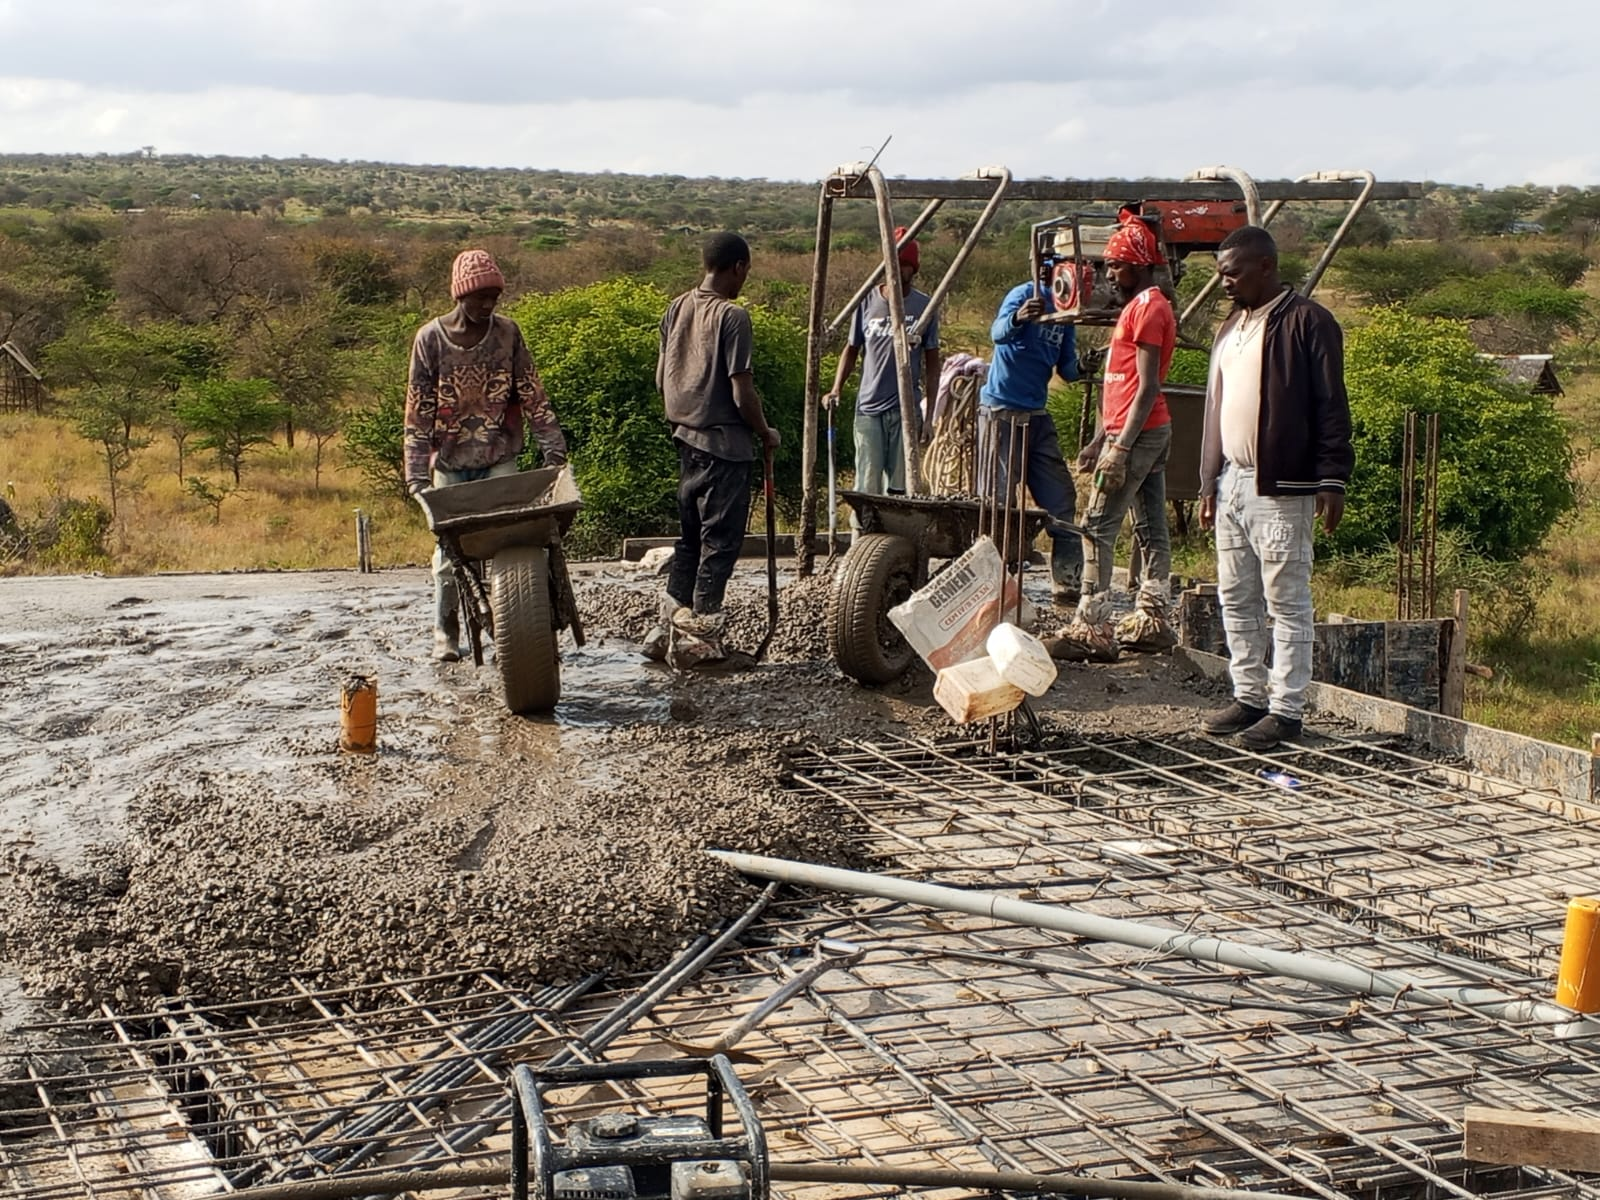
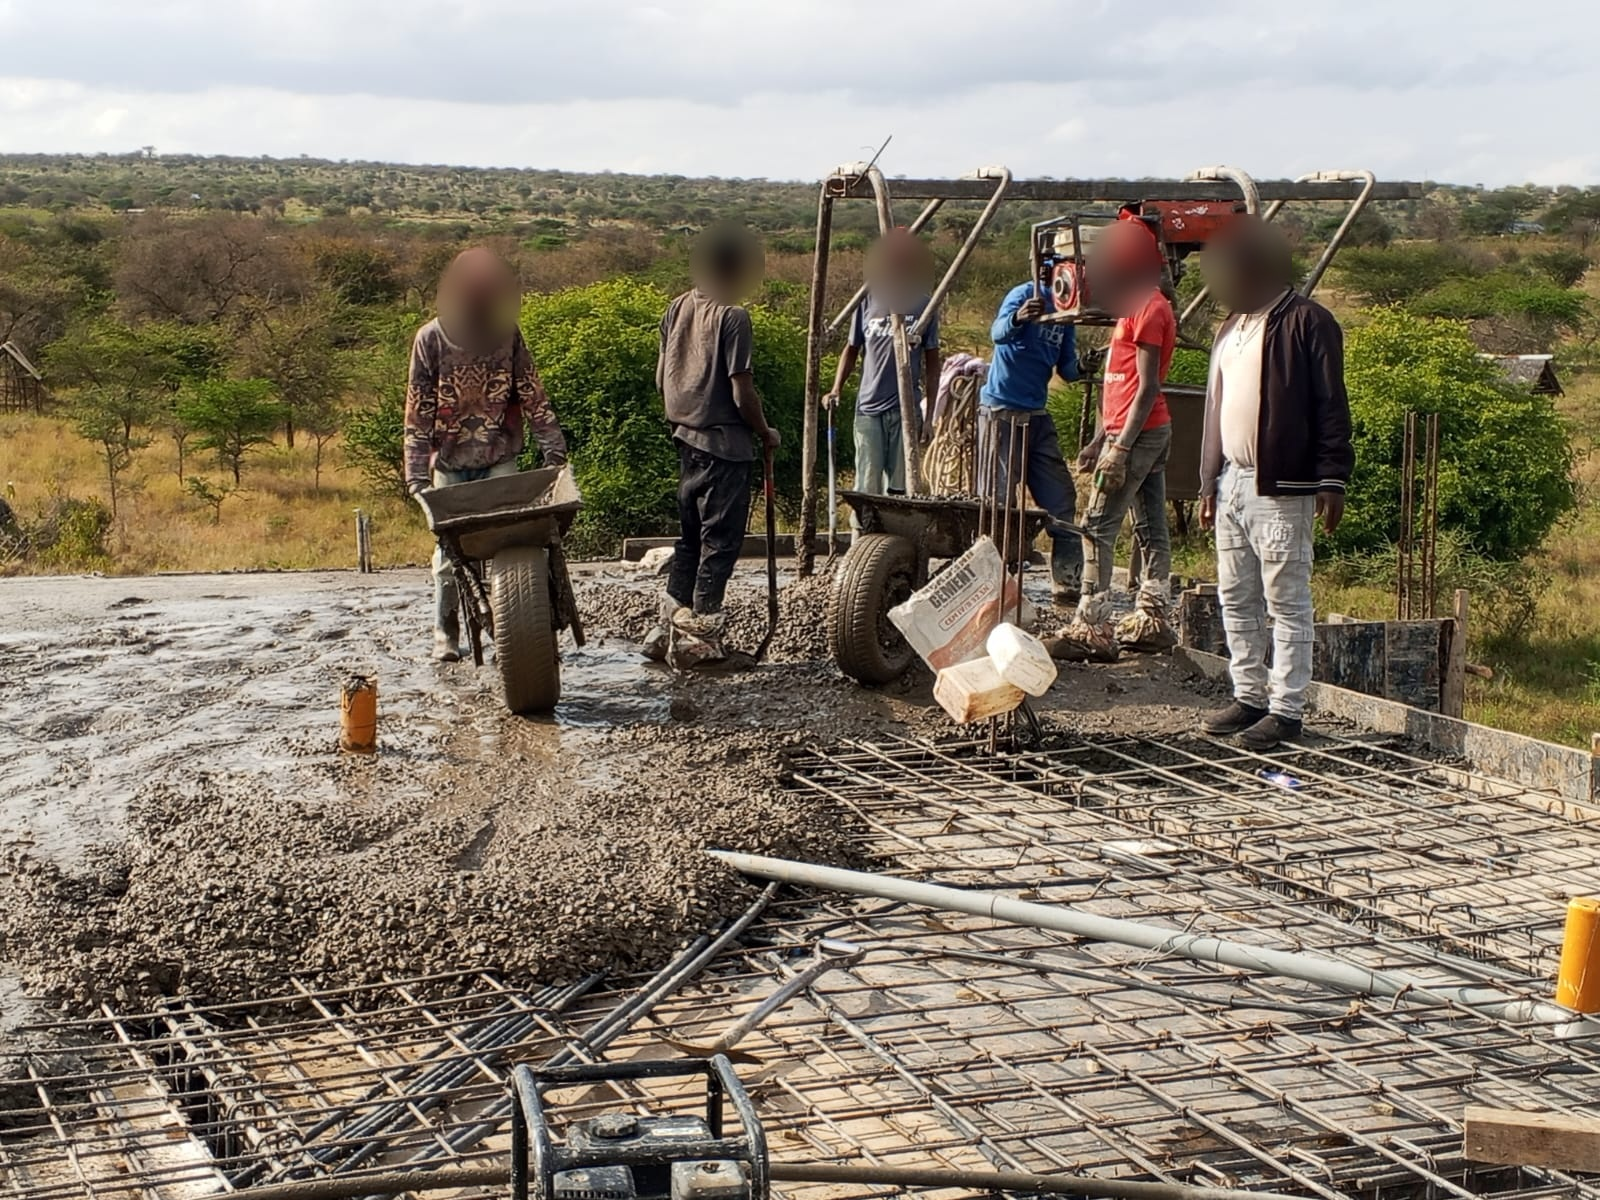
Blur gallery faces and add desktop top navigation

diff --git a/index.html b/index.html
@@ -74,7 +74,7 @@
           <a href="images/WhatsApp%20Image%202026-11-25%20at%2012.48.36%20PM.jpeg" aria-label="View full-size photo: Two children sitting on a bench"><img src="images/WhatsApp%20Image%202026-11-25%20at%2012.48.36%20PM.jpeg" width="780" height="1040" loading="lazy" decoding="async" alt="Two children sitting on a bench"></a>
           <a href="images/WhatsApp%20Image%202026-11-25%20at%2012.48.38%20PM.jpeg" aria-label="View full-size photo: Children and adults standing outside a blue building"><img src="images/WhatsApp%20Image%202026-11-25%20at%2012.48.38%20PM.jpeg" width="1200" height="1600" loading="lazy" decoding="async" alt="Children and adults standing outside a blue building"></a>
           <a href="images/WhatsApp%20Image%202026-11-25%20at%2012.48.39%20PM.jpeg" aria-label="View full-size photo: A group gathered outside beside stacked supplies"><img src="images/WhatsApp%20Image%202026-11-25%20at%2012.48.39%20PM.jpeg" width="1200" height="1600" loading="lazy" decoding="async" alt="A group gathered outside beside stacked supplies"></a>
-          <a href="images/WhatsApp%20Image%202026-11-25%20at%2012.48.40%20PM%20%281%29.jpeg" aria-label="View full-size photo: A bicycle decorated with balloons"><img src="images/WhatsApp%20Image%202026-11-25%20at%2012.48.40%20PM%20%281%29.jpeg" width="720" height="1600" loading="lazy" decoding="async" alt="A bicycle decorated with balloons"></a>
+          <a href="images/WhatsApp%20Image%202026-11-25%20at%2012.48.40%20PM%20%281%29.jpeg" aria-label="View full-size photo: A person seated in a blue wheelchair"><img src="images/WhatsApp%20Image%202026-11-25%20at%2012.48.40%20PM%20%281%29.jpeg" width="720" height="1600" loading="lazy" decoding="async" alt="A person seated in a blue wheelchair"></a>
           <a href="images/WhatsApp%20Image%202026-11-25%20at%2012.48.40%20PM.jpeg" aria-label="View full-size photo: A group working at an outdoor construction site"><img src="images/WhatsApp%20Image%202026-11-25%20at%2012.48.40%20PM.jpeg" width="1600" height="1200" loading="lazy" decoding="async" alt="A group working at an outdoor construction site"></a>
           <a href="images/WhatsApp%20Image%202026-11-25%20at%2012.48.41%20PM.jpeg" aria-label="View full-size photo: Children and adults gathered indoors on colorful mats"><img src="images/WhatsApp%20Image%202026-11-25%20at%2012.48.41%20PM.jpeg" width="1500" height="1000" loading="lazy" decoding="async" alt="Children and adults gathered indoors on colorful mats"></a>
         </div>

diff --git a/streamlit.css b/streamlit.css
@@ -37,6 +37,29 @@
 .cosmus-info .faq details { border: 1px solid #d6e2d8; border-radius: .75rem; padding: .65rem .85rem; margin-bottom: .55rem; }
 .cosmus-info .faq summary { cursor: pointer; min-height: 44px; padding-block: .5rem; font-weight: 700; }
 
+.st-key-desktop-nav { display: none; }
+
+@media (min-width: 1100px) and (hover: hover) and (pointer: fine) {
+  [data-testid="stSidebar"], [data-testid="stSidebarCollapsedControl"],
+  [data-testid="stExpandSidebarButton"] { display: none !important; }
+  .st-key-desktop-nav {
+    display: flex;
+    margin-bottom: .75rem;
+    padding: 1rem 1.25rem;
+    background: #fff;
+    border: 1px solid #d6e2d8;
+    border-radius: 1.15rem;
+  }
+  .st-key-desktop-nav a {
+    border: 1px solid #d6e2d8;
+    border-radius: 100px;
+    padding: .45rem .85rem;
+  }
+  .st-key-desktop-nav a:hover { background: #eaf1e9; }
+  .st-key-desktop-nav a[href$="/donate"] { background: #245c49; color: white; }
+  .st-key-desktop-nav a:focus-visible { outline: 3px solid #a85c1b; outline-offset: 2px; }
+}
+
 @media (max-width: 680px) {
   .st-key-hero, .st-key-donation, .cosmus-info .giving { padding: 1rem; border-radius: 1rem; }
   .st-key-hero h1, .st-key-donation h1, .cosmus-info h1 { font-size: clamp(2rem, 8vw, 3rem); }

diff --git a/app.py b/app.py
@@ -11,7 +11,7 @@ PHOTO_DESCRIPTIONS = {
     "12.48.36 PM.jpeg": "Two children sitting on a bench",
     "12.48.38 PM.jpeg": "Children and adults standing outside a blue building",
     "12.48.39 PM.jpeg": "A group gathered outside beside stacked supplies",
-    "12.48.40 PM (1).jpeg": "A bicycle decorated with balloons",
+    "12.48.40 PM (1).jpeg": "A person seated in a blue wheelchair",
     "12.48.40 PM.jpeg": "A group working at an outdoor construction site",
     "12.48.41 PM.jpeg": "Children and adults gathered indoors on colorful mats",
 }
@@ -49,8 +49,9 @@ def info_page(slug: str):
 
 
 def home():
-    with st.container(key="hero", horizontal=True, gap="large", vertical_alignment="center"):
-        with st.container(width=380):
+    with st.container(key="hero"):
+        intro, picture = st.columns([1, 1.1], gap="large", vertical_alignment="center")
+        with intro:
             st.caption("Children’s home and community care · Kenya")
             st.title("A safe place to grow")
             st.write("Children need dependable care, support at school, and time to play and build friendships.")
@@ -58,7 +59,7 @@ def home():
         if photos:
             cover = next((photo for photo in photos if photo.name.endswith("12.48.41 PM.jpeg")), photos[0])
             alt = PHOTO_DESCRIPTIONS.get(cover.name.split(" at ")[-1], "Illustration of figures standing together")
-            st.image(str(cover), width=540, alt=alt)
+            picture.image(str(cover), width="stretch", alt=alt)
 
     st.header("Daily care for children")
     with st.grid(min_column_width=220, gap="medium") as care:
@@ -124,13 +125,23 @@ def donate():
             st.button("Donate · Coming soon", type="primary", width="stretch", disabled=True)
 
 
+homepage = st.Page(home, title="Home", default=True)
 giving = st.Page(donate, title="Ways to give", url_path="donate")
 details = {slug: info_page(slug) for slug in INFO_PAGES}
 page = st.navigation({
-    "": [st.Page(home, title="Home", default=True), giving],
+    "": [homepage, giving],
     "About the home": [details[slug] for slug in ("about", "board", "founders", "partners", "tour", "impact")],
     "Get involved": [details[slug] for slug in ("volunteer", "contact", "safeguarding")],
 })
+with st.container(key="desktop-nav"):
+    st.markdown("**Pastor Cosmus Muema**")
+    with st.container(horizontal=True, gap="small"):
+        for target in (
+            homepage, details["about"], details["tour"], details["impact"],
+            details["volunteer"], details["contact"], giving,
+        ):
+            st.page_link(target)
+
 page.run()
 
 st.divider()
